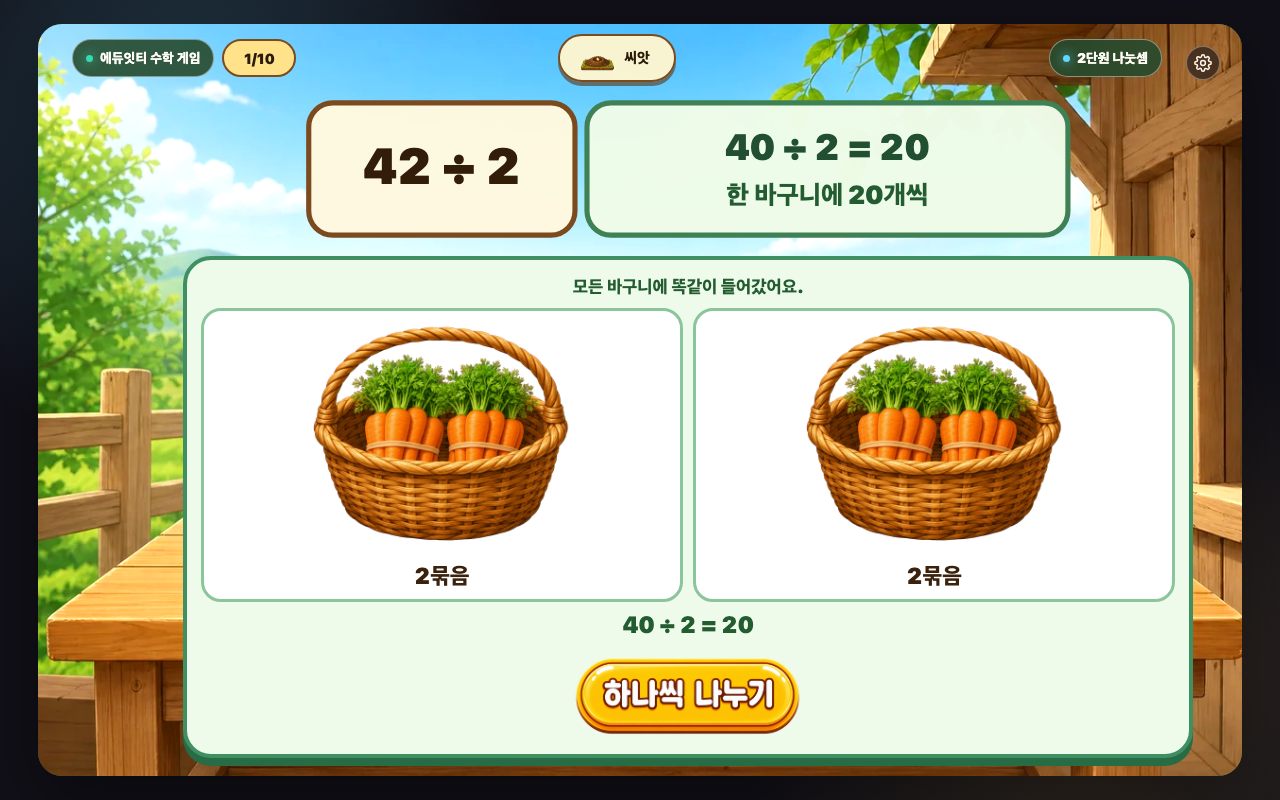
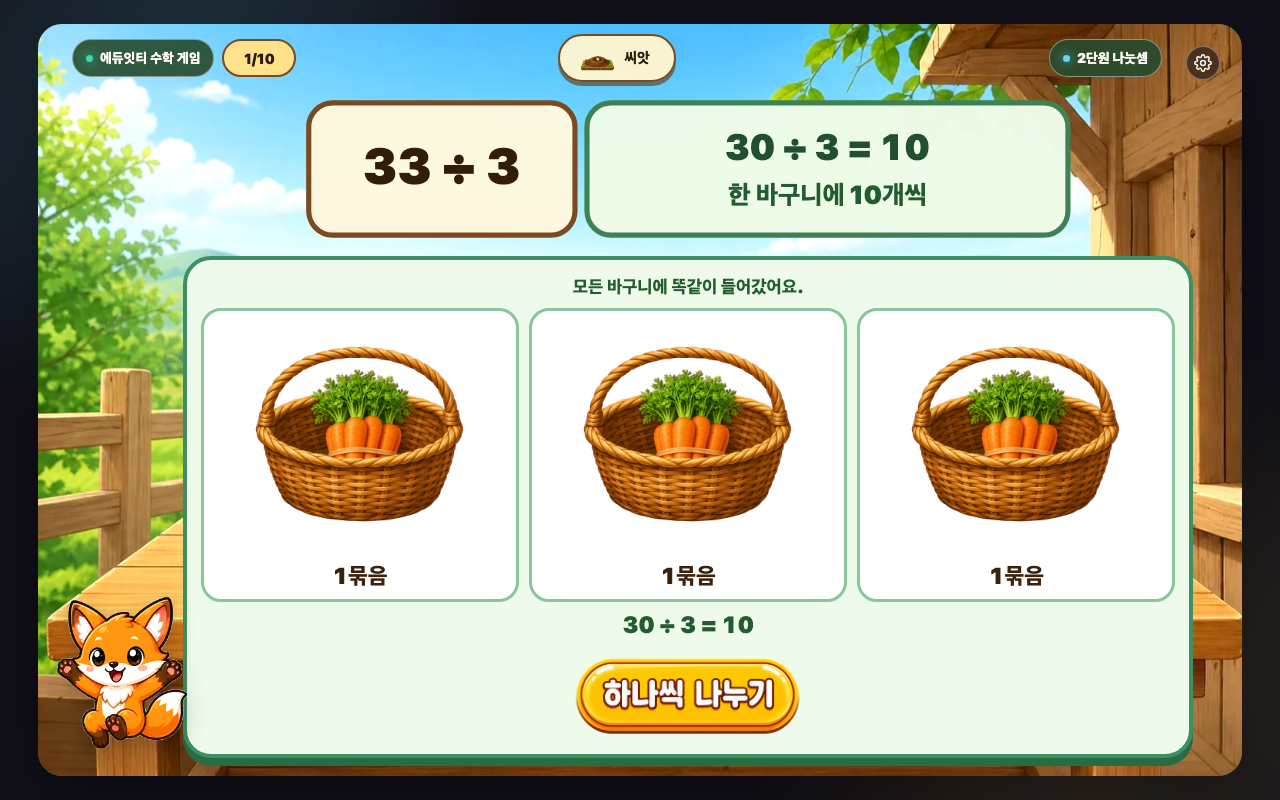
feat(mathmon): show fox on division confirmation

diff --git a/3-2-2-1-mathmon-divide-farm/index.html b/3-2-2-1-mathmon-divide-farm/index.html
@@ -3530,7 +3530,18 @@
     .game[data-workbench-type="place-value-farm"] .farm-drag-piece:focus-visible,
     .game[data-workbench-type="place-value-farm"] .farm-share-basket:focus-visible { outline: 5px solid #1d8050; outline-offset: 3px; }
     .game[data-workbench-type="place-value-farm"] .farm-share-entry.is-dragging .farm-share-basket { border-color: #2f8253; background: #effbea; }
-    .game[data-workbench-type="place-value-farm"] .play-mathmon-reaction { display: none !important; }
+    .game[data-workbench-type="place-value-farm"] .play-mathmon-reaction {
+      display: none !important;
+      left: 6px;
+      bottom: 18px;
+      width: 156px;
+      height: 194px;
+      pointer-events: none;
+    }
+    .game[data-workbench-type="place-value-farm"] .problem-grid:has(.farm-share-confirmation)
+      ~ .play-mathmon-reaction[data-reaction="correct"]:not([hidden]) {
+      display: block !important;
+    }
     .game[data-workbench-type="place-value-farm"] .farm-share-feedback {
       min-height: 30px;
       margin: 0;

diff --git a/_lessons/3-2-2-1-mathmon-divide-farm/lesson.css b/_lessons/3-2-2-1-mathmon-divide-farm/lesson.css
@@ -2605,7 +2605,18 @@
 .game[data-workbench-type="place-value-farm"] .farm-drag-piece:focus-visible,
 .game[data-workbench-type="place-value-farm"] .farm-share-basket:focus-visible { outline: 5px solid #1d8050; outline-offset: 3px; }
 .game[data-workbench-type="place-value-farm"] .farm-share-entry.is-dragging .farm-share-basket { border-color: #2f8253; background: #effbea; }
-.game[data-workbench-type="place-value-farm"] .play-mathmon-reaction { display: none !important; }
+.game[data-workbench-type="place-value-farm"] .play-mathmon-reaction {
+  display: none !important;
+  left: 6px;
+  bottom: 18px;
+  width: 156px;
+  height: 194px;
+  pointer-events: none;
+}
+.game[data-workbench-type="place-value-farm"] .problem-grid:has(.farm-share-confirmation)
+  ~ .play-mathmon-reaction[data-reaction="correct"]:not([hidden]) {
+  display: block !important;
+}
 .game[data-workbench-type="place-value-farm"] .farm-share-feedback {
   min-height: 30px;
   margin: 0;
